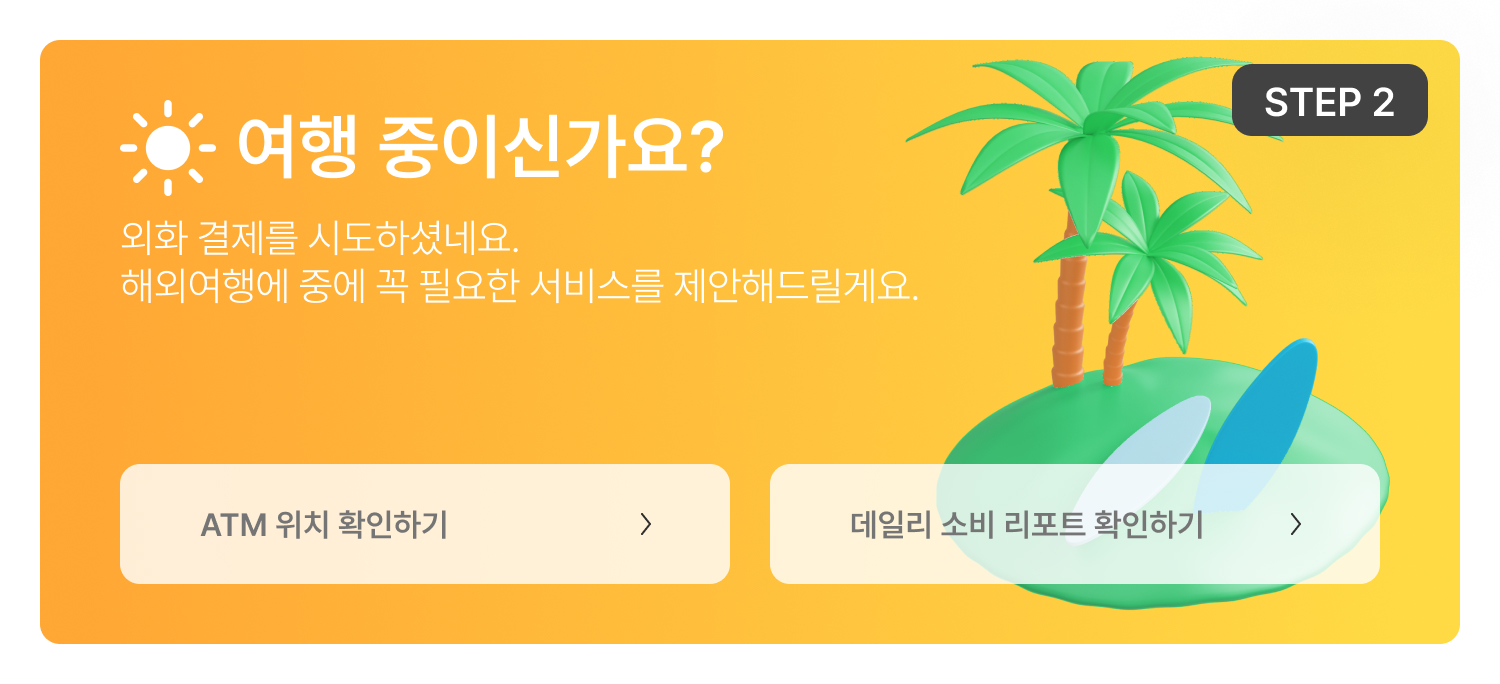
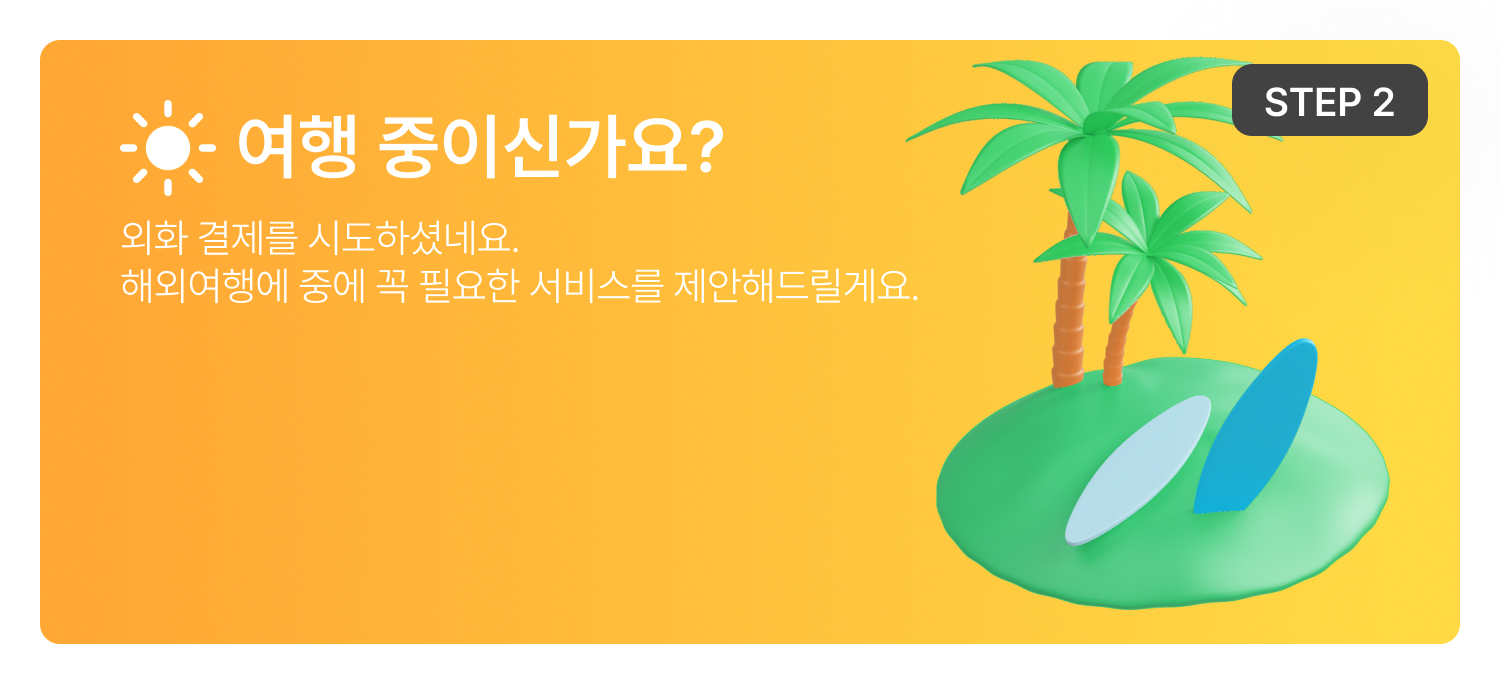
fix: 레이아웃 되돌리기

Changed region(s): [[0.0613, 0.6754, 0.92, 0.8596]]

diff --git a/hanaUp/src/styles/GlobalStyle.jsx b/hanaUp/src/styles/GlobalStyle.jsx
@@ -7,16 +7,6 @@ const GlobalStyle = createGlobalStyle`
     src: url('/fonts/Pretendard-Bold.ttf');
   }
   @font-face {
-    font-family: 'Pretendard-ExtraBold';
-    font-weight: normal;
-    src: url('/fonts/Pretendard-ExtraBold.ttf');
-  }
-  @font-face {
-    font-family: 'Pretendard-Medium';
-    font-weight: normal;
-    src: url('/fonts/Pretendard-Medium.ttf');
-  }
-  @font-face {
     font-family: 'Pretendard-Regular';
     font-weight: normal;
     src: url('/fonts/Pretendard-Regular.ttf');
@@ -51,10 +41,15 @@ const GlobalStyle = createGlobalStyle`
   .Home, .predictService, .testInputPage, .spendTypeTest, .spendTypeTestPage, .atmPage, .reportPage, .investIntro, .investIntroResult, .newAccount, .exTech, .deleteSavings{
   margin-left: auto;
   margin-right: auto;
+
+  // 레이아웃
+  display: flex;
+  flex-direction: column;
+  position: relative;
+  text-align: center;
   margin: 0;
   min-height: 100vh;
-  max-width: 100vw;
-  max-height: 100vh;
+  background-color: white;
 
    /* 스크롤바 숨기기 */
    &::-webkit-scrollbar {

diff --git a/hanaUp/src/Home/Home.jsx b/hanaUp/src/Home/Home.jsx
@@ -22,6 +22,13 @@ const Container = styled.div`
   }
 
   position: relative;
+
+  /* 스크롤바 숨기기 */
+  &::-webkit-scrollbar {
+    display: none;
+  }
+
+  overflow-y: scroll;
 `;
 
 const FundSwiperContainer = styled.div`
